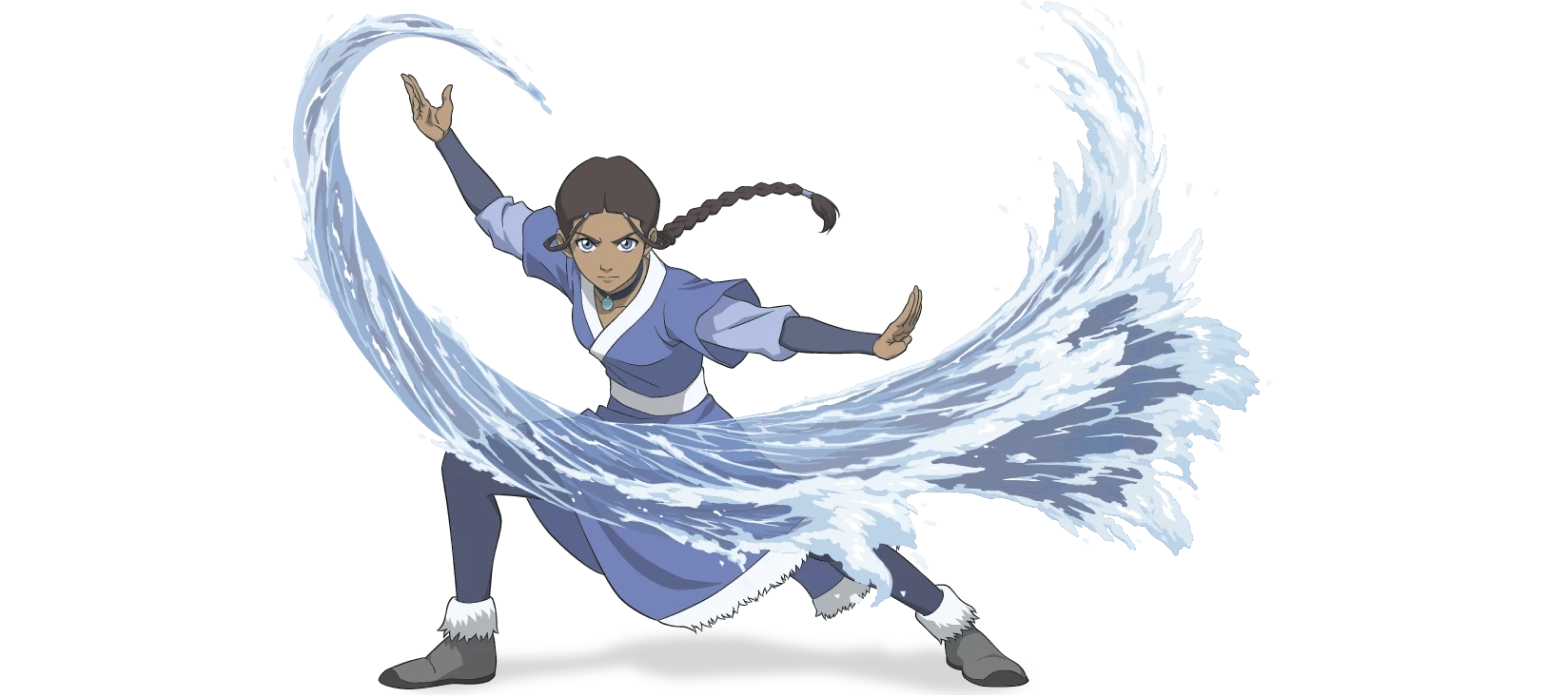
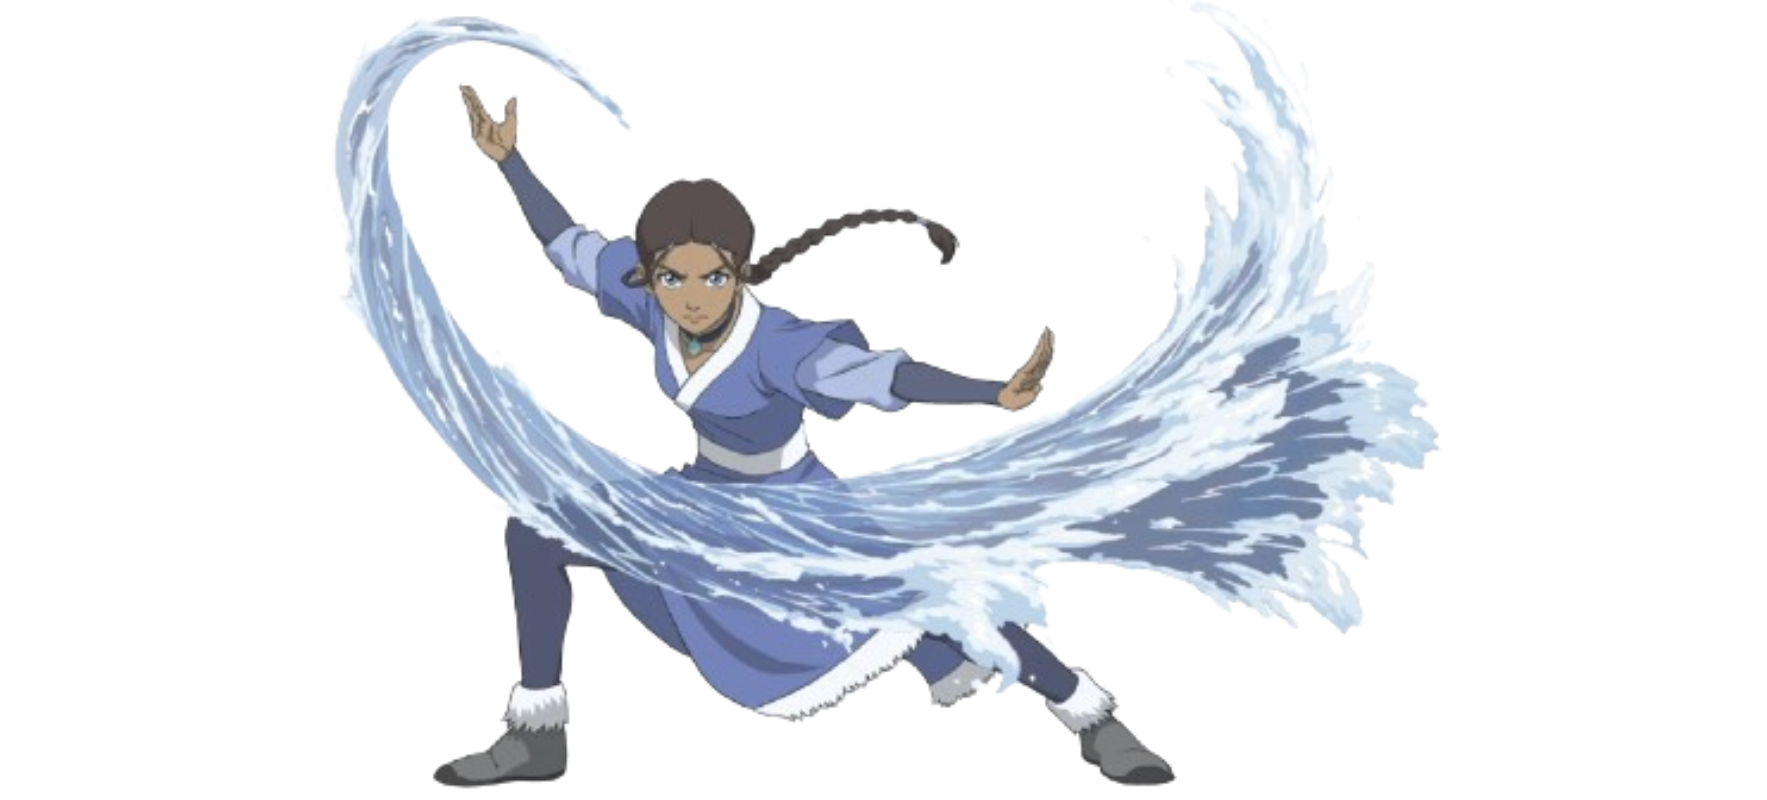
Carousel upgrades

diff --git a/src/components/Carousel.js b/src/components/Carousel.js
@@ -26,13 +26,19 @@ const Carousel = () => {
                             key={index}
                             className={`w-full shadow-xl flex flex-col p-4 my-4 rounded-lg hover:scale-105 duration-300 border border-oraange`}
                         >
-                            <img className="w-220 mx-auto mt-[-3rem]" src={character.image} alt={character.name} />
+                            <div className="image-container">
+                                <img className="w-220 mx-auto mt-[-3rem] object-contain h-96 w-96" src={character.image} alt={character.name} />
+                            </div>
                             <h2
                                 className={`text-2xl font-bold text-center text-${character.color}-500 py-8`}
                             >
                                 {character.name}
                             </h2>
-                            <p className="text-center text-4xl font-bold">{character.type}</p>
+
+                            <p className={`text-center text-4xl font-bold text-${character.color}-500`}>
+                                {character.type}
+                            </p>
+
                             <div className="text-center font-medium">
                                 {character.abilities.map((ability, index) => (
                                     <p key={index} className="py-2 pt-8 border-b mx-8">
